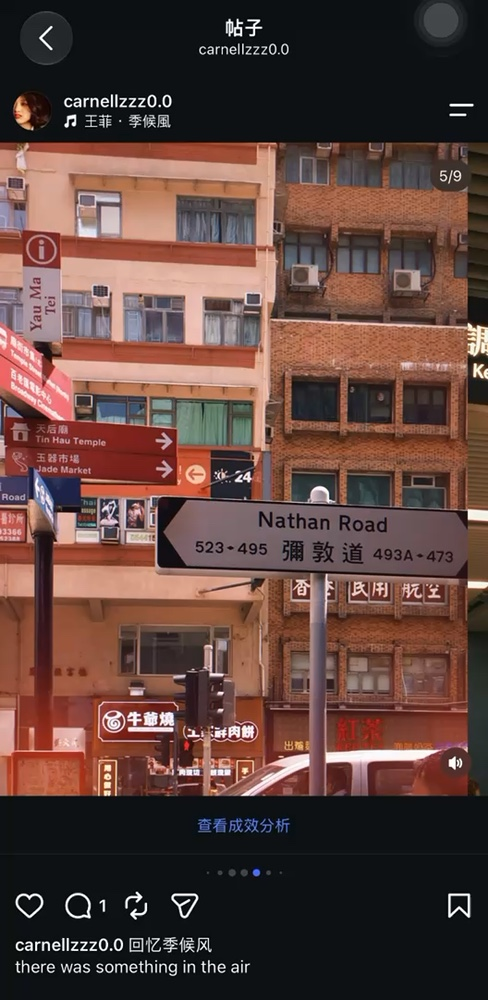
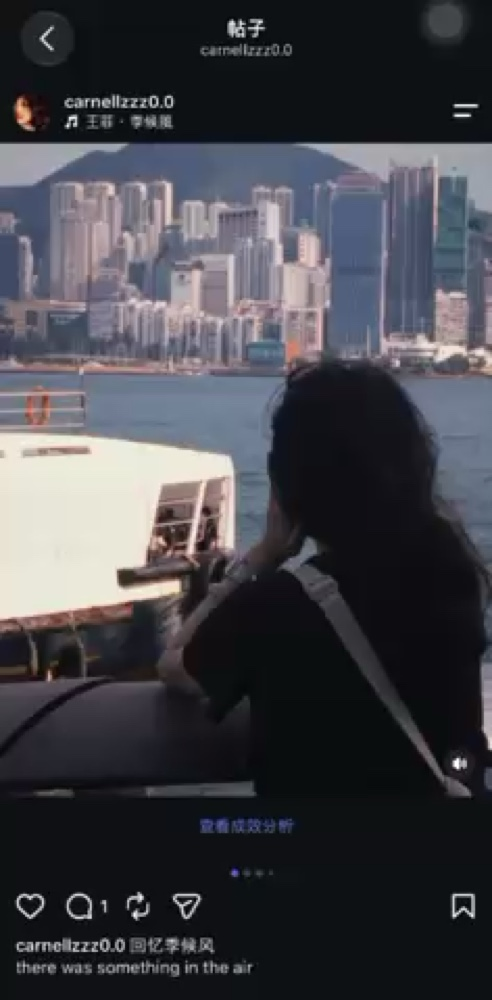
Refine photography diary and navigation loading

diff --git a/project-content.js b/project-content.js
@@ -65,16 +65,16 @@ window.BETWEEN_WAVES_PROJECTS = Object.freeze({
     { type: 'process', eyebrow: 'REVISION', title: '二十四版如何发生', steps: ['先统一核心命题。', '重排部门材料。', '压缩重复信息。', '让口述节奏与画面节奏一致。'] },
     { type: 'text', eyebrow: 'COLLABORATION · ARCHIVE', title: '让不同声音进入同一结构', body: ['统筹不是抹平差异，而是为每部分找到必要的位置。', '二十四版不是单纯的返工记录。反复修改让我理解，完整叙事往往来自持续删减与重新排序。'] },
   ] },
-  bt03: { role: '手机摄影 · 选曲 · 日常观察', intro: '我不想让这些照片脱离自己为它们选择的音乐。于是，六个帖子仍以各自原本的声音出现。', blocks: [
-    { type: 'text', eyebrow: 'LISTENING NOTE', title: '照片与音乐一起，才是完整的帖子', body: ['这些手机摄影不是静止的图集。音乐决定了回看城市、旅行与日常时，情绪如何再次流动。', '播放任意一帖时，网站背景音乐会暂时淡出；暂停或播放结束后，它会按你原来的声音设置恢复。'] },
+  bt03: { role: '手机摄影 · 选曲 · 日常观察', intro: '照片和音乐的配合，会触发我当时拍摄时的场景与感受，如同 déjà vu。', blocks: [
+    { type: 'text', eyebrow: 'LISTENING NOTE', title: '照片与音乐一起，表达流动的情绪记忆', body: ['照片与音乐共同成为记忆的触发器；画面被重新看见时，当时的情绪也随旋律再次流动。'] },
     { type: 'instagram', eyebrow: 'MOBILE PHOTOGRAPHY', title: '六段手机摄影日记', length: 6, body: '选择一张封面进入对应帖子。连续播放默认关闭，避免音乐与情绪被自动推进。', posts: [
       { title: '回忆季候风 · 香港', song: '王菲 · 季候风', src: 'assets/videos/instagram/post-01.m4v', poster: 'assets/projects/bt03/post-01.jpg', caption: 'there was something in the air' },
       { title: '从台大一路向北', song: 'Taylor Swift · august', src: 'assets/videos/instagram/post-02.m4v', poster: 'assets/projects/bt03/post-02.jpg', caption: '一段带着夏日空气的校园与旅途记忆。' },
-      { title: 'Blue Hour in Kaohsiung', song: '原帖选曲', src: 'assets/videos/instagram/post-03.m4v', poster: 'assets/projects/bt03/post-03.jpg', caption: '听雨的声音，也听见城市进入蓝调时刻。' },
+      { title: 'Blue Hour in Kaohsiung', song: '杨丞琳 · 雨爱', src: 'assets/videos/instagram/post-03.m4v', poster: 'assets/projects/bt03/post-03.jpg', caption: '听雨的声音，也听见城市进入蓝调时刻。' },
       { title: 'Catedral de Sevilla', song: 'Taylor Swift · invisible string', src: 'assets/videos/instagram/post-04.m4v', poster: 'assets/projects/bt03/post-04.jpg', caption: '把旅途中抬头看见的天空，拼进同一条线。' },
       { title: '煮蛋大师', song: 'Sabrina Carpenter · Taste', src: 'assets/videos/instagram/post-05.m4v', poster: 'assets/projects/bt03/post-05.jpg', caption: '早餐、餐具与日常生活里认真摆放的小快乐。' },
       { title: 'Oxford · Dining Hall', song: 'TWICE · Alcohol-Free', src: 'assets/videos/instagram/post-06.m4v', poster: 'assets/projects/bt03/post-06.jpg', caption: '最后一场晚宴，以及属于牛津的一小段告别。' },
     ] },
-    { type: 'reflection', eyebrow: 'BONUS NOTE', title: '让原帖保留自己的呼吸', body: '拆分不是为了把记忆切碎，而是让每个帖子都能被单独进入，也保留它原本的音乐、节奏与观看方式。' },
+    { type: 'reflection', eyebrow: 'BONUS NOTE', title: '记忆切片重组后', body: '又能带我走回那个瞬间，想到那段歌词。' },
   ] },
 });

diff --git a/persistent-shell.js b/persistent-shell.js
@@ -278,6 +278,16 @@
     return path.endsWith('.html') || path.endsWith('/') || !path.split('/').pop().includes('.');
   };
 
+  const releasePageMedia = (doc) => {
+    if (!doc) return;
+    doc.querySelectorAll('video').forEach((video) => {
+      video.pause();
+      video.removeAttribute('src');
+      video.querySelectorAll('source').forEach((source) => source.removeAttribute('src'));
+      video.load();
+    });
+  };
+
   const navigate = (url, push = true) => {
     const target = new URL(url, location.href);
     if (!isInternalPage(target)) {
@@ -287,6 +297,7 @@
     if (!target.pathname.endsWith('about.html') && mode !== 'continuation') switchMode('continuation');
     if (push) history.pushState({ betweenWavesShell: true }, '', `${target.pathname}${target.search}${target.hash}`);
     const previousFrame = activeFrame;
+    releasePageMedia(activeDocument);
     const frame = document.createElement('iframe');
     const serial = ++frameSerial;
     frame.title = 'BETWEEN WAVES 页面内容';
@@ -297,7 +308,7 @@
     });
     document.body.append(frame);
     document.body.style.overflow = 'hidden';
-    let firstLoad = true;
+    let revealed = false;
     let boundDocument = null;
     const bindFrameContent = () => {
       let childDocument;
@@ -318,6 +329,21 @@
       const current = `${location.pathname}${location.search}${location.hash}`;
       if (visible !== current) history.pushState({ betweenWavesShell: true }, '', visible);
     };
+    const revealFrame = () => {
+      if (revealed || !frame.isConnected) return;
+      let ready = false;
+      try {
+        ready = frame.contentDocument?.readyState === 'interactive' || frame.contentDocument?.readyState === 'complete';
+      } catch {
+        return;
+      }
+      if (!ready) return;
+      bindFrameContent();
+      revealed = true;
+      requestAnimationFrame(() => { frame.style.opacity = '1'; });
+      if (previousFrame && previousFrame !== frame) setTimeout(() => previousFrame.remove(), 260);
+      frame.contentWindow.focus();
+    };
     const monitor = setInterval(() => {
       if (!frame.isConnected) {
         clearInterval(monitor);
@@ -325,18 +351,14 @@
       }
       try {
         if (frame.contentDocument !== boundDocument) bindFrameContent();
+        revealFrame();
       } catch {
         clearInterval(monitor);
       }
-    }, 90);
+    }, 50);
     frame.addEventListener('load', () => {
       bindFrameContent();
-      if (firstLoad) {
-        requestAnimationFrame(() => { frame.style.opacity = '1'; });
-        if (previousFrame && previousFrame !== frame) setTimeout(() => previousFrame.remove(), 420);
-        firstLoad = false;
-      }
-      frame.contentWindow.focus();
+      revealFrame();
     });
   };
 

diff --git a/site-data.js b/site-data.js
@@ -17,6 +17,6 @@ window.BETWEEN_WAVES = Object.freeze({
     { id: 'b02', code: 'B02', side: 'b', title: 'My Data Wallet', year: '2026', medium: '教育数据产品原型', href: 'project.html?track=b02', sourceImage: 'assets/projects/b02/case-canvas.png', preview: '一个把教育数据控制权重新交还学生的 Web 原型，也是将数据正义问题转化成可交互产品的尝试。' },
     { id: 'bt01', code: 'BT01', side: 'bonus', title: '小红书选题实验室', year: '2026', medium: '内容策略工具', href: 'project.html?track=bt01', sourceImage: 'assets/projects/bt01/workbench-start.png', preview: '帮助选题判断，尝试把小红书选题经验整理成一个可以使用、修改和继续探索的工具。' },
     { id: 'bt02', code: 'BT02', side: 'bonus', title: '五课为基 以实厚生', year: '2024', medium: '学生会展演', href: 'project.html?track=bt02', sourceImage: 'assets/projects/bt02/portfolio-page.jpg', preview: '一份修改了二十四版的团队汇报。我主导并与团队共同完成设计策划，把庞杂的学生会工作重新组织成能够被听懂的叙事。' },
-    { id: 'bt03', code: 'BT03', side: 'bonus', title: '六段手机摄影日记', year: '2025–2026', medium: 'Instagram 手机摄影', href: 'project.html?track=bt03', sourceImage: 'assets/projects/bt03/post-01.jpg', preview: '六个帖子，六段各自带着音乐的移动影像。城市、旅行与日常在原帖选曲中重新获得当时的情绪。' },
+    { id: 'bt03', code: 'BT03', side: 'bonus', title: '六段手机摄影日记', year: '2025–2026', medium: 'Instagram 手机摄影', href: 'project.html?track=bt03', sourceImage: 'assets/projects/bt03/post-01.jpg', preview: '照片和音乐的配合，会触发拍摄时的场景与感受，如同 déjà vu。' },
   ]),
 });

diff --git a/project.html b/project.html
@@ -3,7 +3,7 @@
 <head>
   <meta charset="utf-8"><meta name="viewport" content="width=device-width,initial-scale=1"><meta name="theme-color" content="#03101c">
   <meta name="description" content="BETWEEN WAVES 项目档案。"><title>Project — BETWEEN WAVES</title>
-  <link rel="stylesheet" href="project.css?v=20261028-1"><link rel="stylesheet" href="mobile-menu.css"><link rel="stylesheet" href="page-motion.css?v=20261025-1"><link rel="stylesheet" href="ambient-audio.css?v=20261025-2">
+  <link rel="stylesheet" href="project.css?v=20261028-2"><link rel="stylesheet" href="mobile-menu.css"><link rel="stylesheet" href="page-motion.css?v=20261025-1"><link rel="stylesheet" href="ambient-audio.css?v=20261025-2">
 </head>
 <body class="project-page">
   <a class="skip-link" href="#project-main">跳至项目内容</a>
@@ -13,6 +13,6 @@
     <div id="project-spreads" class="project-spreads" aria-live="polite"></div>
     <nav class="project-sequence" aria-label="曲目导航"><a data-project-previous></a><a href="works.html">RETURN TO TRACK LIST</a><a data-project-next></a></nav>
   </main>
-  <script src="site-data.js?v=20261028-1"></script><script src="project-content.js?v=20261028-1"></script><script src="project.js?v=20261028-1"></script><script src="mobile-menu.js"></script><script src="page-motion.js?v=20261025-1"></script><script src="persistent-shell.js?v=20261028-1"></script><script src="ambient-audio.js?v=20261025-4"></script>
+  <script src="site-data.js?v=20261028-2"></script><script src="project-content.js?v=20261028-2"></script><script src="project.js?v=20261028-2"></script><script src="mobile-menu.js"></script><script src="page-motion.js?v=20261025-1"></script><script src="persistent-shell.js?v=20261028-2"></script><script src="ambient-audio.js?v=20261025-4"></script>
 </body>
 </html>

diff --git a/project.js b/project.js
@@ -65,7 +65,9 @@
     video.playsInline = true;
     video.setAttribute('playsinline', '');
     video.setAttribute('webkit-playsinline', '');
-    video.preload = 'metadata';
+    // Keep the poster visible without fetching a 25–40 MB clip during page entry.
+    // The selected clip is requested only when the visitor explicitly presses play.
+    video.preload = 'none';
     video.poster = block.poster;
     video.setAttribute('aria-label', block.title);
     video.src = selectedSource;
@@ -161,7 +163,8 @@
     video.playsInline = true;
     video.setAttribute('playsinline', '');
     video.setAttribute('webkit-playsinline', '');
-    video.preload = 'metadata';
+    // Posters are enough for browsing; defer each large mobile clip until play.
+    video.preload = 'none';
     video.dataset.instagramPlayer = '';
 
     const details = element('figcaption', 'instagram-player__details');
@@ -194,7 +197,7 @@
       video.src = post.src;
       video.poster = post.poster;
       video.setAttribute('aria-label', `${post.title}，音乐：${post.song}`);
-      video.load();
+      if (shouldPlay) video.load();
       counter.textContent = `${String(nextIndex + 1).padStart(2, '0')} / ${String(block.posts.length).padStart(2, '0')}`;
       title.textContent = post.title;
       song.textContent = `♫ ${post.song}`;
